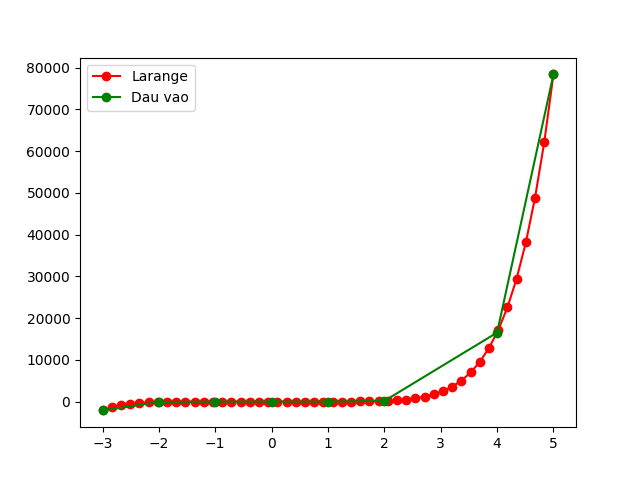
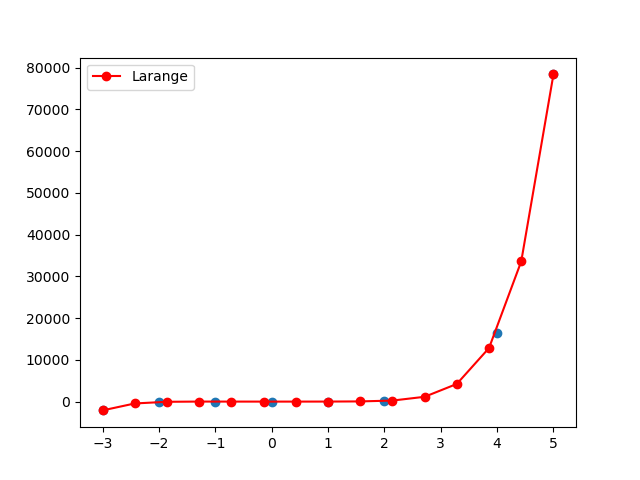
update lagrange, horner, newton

diff --git a/newton.py b/newton.py
@@ -1,56 +1,125 @@
+import math
 import horner
 import global_function as gf
 
-def BTH(arr_y, arr_x):
+# Bảng tỉ sai phân
+
+
+def BTSP(arr_y, arr_x):
     result = []
     result.append(arr_y)
-    for i in range(1,len(arr_y)):
+    for i in range(1, len(arr_y)):
         result.append([])
         for j in range(len(result[i-1])-1):
             m = (result[i-1][j+1] - result[i-1][j])/(arr_x[j+i] - arr_x[j])
             result[i].append(m)
     return result
 
-# Newton tiến 
-def newton_up(arr_y, arr_x):
-    arr_bth = BTH(arr_y, arr_x)
-    print(arr_bth)
-    print("----------")
-    result = [arr_y[0]]
-    for i in range(1, len(arr_bth)):
-        f = [arr_bth[i][0]]
-        for j in range(0, i):
-            print("x: ", arr_x[j])
-            f = horner.multiplication(f,arr_x[j])
-        print(f)
-        result = gf.add_two_polynomial(result,f)
+
+# Bảng tỉ sai phân cho newton cách đều
+# 1 : Sai phân tiến | 0 : Sai phân lùi
+def BTSP_equidistant(arr_y, type_btsp=1):
+    result = []
+    result.append(arr_y)
+    if (type_btsp == 0):
+        for i in range(1, len(arr_y)):
+            result.append([])
+            for j in range(len(result[i-1])-1):
+                m = (result[i-1][j+1] - result[i-1][j])
+                result[i].append(m)
+
+    elif (type_btsp == 1):
+        for i in range(1, len(arr_y)):
+            result.append([])
+            for j in range(1, len(result[i-1])):
+                m = (result[i-1][j] - result[i-1][j-1])
+                result[i].append(m)
     return result
+
+
+# Newton tiến
+def newton_up(arr_y, arr_x):
+    arr_btsp = BTSP(arr_y, arr_x)
+    print("----------")
+    print("BTSP Newton tiến: ", arr_btsp)
+    result = [arr_y[0]]
+    for i in range(1, len(arr_btsp)):
+        f = [arr_btsp[i][0]]
+        for j in range(0, i):
+            f = horner.multiplication(f, arr_x[j])
+        result = gf.add_two_polynomial(result, f)
+    return result
+
+
+# Newton tiến cho trường hợp điểm nội suy cách đều
+def newton_equidistant_up(arr_y, arr_x, h):
+    arr_btsp = BTSP_equidistant(arr_y, 1)
+    print("----------")
+    print("BTSP Newton mốc cách đều tiến: ", arr_btsp)
+    result = [arr_y[0]]
+    for i in range(1, len(arr_btsp)):
+        f = [arr_btsp[i][0] / (math.factorial(i) * h**i)
+             ]  # delta y0 / i! * h^i
+        for j in range(0, i):
+            f = horner.multiplication(f, arr_x[j])
+        result = gf.add_two_polynomial(result, f)
+    return result
+
 
 # Newton lùi
 def newton_down(arr_y, arr_x):
-    arr_bth = BTH(arr_y, arr_x)
-    print(arr_bth)
+    arr_btsp = BTSP(arr_y, arr_x)
     print("----------")
+    print("BTSP Newton lùi: ", arr_btsp)
     len_x = len(arr_x)
     result = [arr_y[len(arr_y)-1]]
-    for i in range(1, len(arr_bth)):
-        f = [arr_bth[i][len(arr_bth[i])-1]]
+    for i in range(1, len(arr_btsp)):
+        f = [arr_btsp[i][len(arr_btsp[i])-1]]
         for j in range(0, i):
-            print("x: ", arr_x[len_x - j - 1])
-            f = horner.multiplication(f,arr_x[len_x- j - 1])
-        print(f)
-        result = gf.add_two_polynomial(result,f)
+            f = horner.multiplication(f, arr_x[len_x - j - 1])
+        result = gf.add_two_polynomial(result, f)
     return result
 
-if __name__ == "__main__" :
+# Newton lùi cho trường hợp điểm nội suy cách đều
+
+
+def newton_equidistant_down(arr_y, arr_x, h):
+    arr_btsp = BTSP_equidistant(arr_y, 0)
+    print("----------")
+    print("BTSP Newton mốc cách đều lùi: ", arr_btsp)
+    result = [arr_y[0]]
+    len_x = len(arr_x)
+    result = [arr_y[len(arr_y)-1]]
+    for i in range(1, len(arr_btsp)):
+        # delta yn / i! * h^i
+        f = [arr_btsp[i][len(arr_btsp[i])-1] / (math.factorial(i) * h**i)]
+        for j in range(0, i):
+            f = horner.multiplication(f, arr_x[len_x - j - 1])
+        result = gf.add_two_polynomial(result, f)
+    return result
+
+
+def newton(arr_y, arr_x):
+    if (gf.check_inter_point(arr_x)):
+        d = arr_x[1] - arr_x[0]
+        print("Newton tiến với mốc cách đều : ", gf.to_string_polynomial(
+            newton_equidistant_up(arr_y, arr_x, d)))
+
+        print("Newton lùi với mốc cách đều : ",
+              gf.to_string_polynomial(newton_equidistant_down(arr_y, arr_x, d)))
+    else:
+        print("Newton tiến : ", gf.to_string_polynomial(
+            newton_up(arr_y, arr_x)))
+
+        print("Newton lùi : ",
+              gf.to_string_polynomial(newton_down(arr_y, arr_x)))
+
+if __name__ == "__main__":
 
     # Input
     # Y
-    A = [0.76 , 0.62, 0.45, 0.28]
+    A = [25, 35, 245]
     # X
-    B = [1.0, 1.3, 1.6, 1.9 ]
+    B = [-2, 3, 9]
 
-    print("Up")
-    print(gf.to_string_polynomial(newton_up(A,B)))
-    print("Down")
-    print(gf.to_string_polynomial(newton_down(A,B)))
+    newton(A, B)

diff --git a/global_function.py b/global_function.py
@@ -2,13 +2,30 @@
 def to_string_polynomial(arr):
     result = ""
     n = len(arr)
-    for i in range(n-1):
-        if (result != ""):
-            result = result + " + (" + str(arr[i]) + "x^" + str(n-i-1) + ")"
-        else:
-            result += " (" + str(arr[i]) + "x^" + str(n-i-1) + ")"
+    for i in range(n):
+        if(i == n-1):
+            if(result == ""):
+                result += str(arr[i])
+                break
+            if(arr[i] >= 0):
+                result += " + " + str(arr[i])
+            else:
+                result += " - " + str(abs(arr[i]))
+            break
 
-    result += " + (" + str(arr[n-1]) + ")"
+        if (result ==""):
+            if( arr[i] != 0):
+                result +=  str(arr[i]) + "x^" + str(n-i-1) 
+                continue
+            else:
+                continue
+            
+        if (arr[i] > 0):
+            result += " + " + str(arr[i]) + "x^" + str(n-i-1) 
+        elif(arr[i] == 0):
+            continue
+        else:
+            result += " - " + str(abs(arr[i])) + "x^" + str(n-i-1)
 
     return result
 
@@ -56,5 +73,5 @@ def check_inter_point(arr):
     d = arr[1] - arr[0]
     for i in range(2, len(arr)):
         if(arr[i-1] + d != arr[i]):
-            return True
-    return False
+            return False
+    return True

diff --git a/horner.py b/horner.py
@@ -14,6 +14,9 @@ def division(arr, c):
         m = arr_a[i] + arr_b[i-1]*c
         arr_b.append(m)
 
+    if(len(arr_b) == 0):
+        return([0], 0)
+
     return (arr_b[0:len(arr_b)-1] , arr_b[len(arr_b)-1])
 
 # Nhan da thuc voi x - c
@@ -94,17 +97,18 @@ if __name__ == "__main__":
 
     # Input
     # Mảng hệ số của đa thức
-    A = [1, 2, 2]
+    # A = [2, 0, -8, 0, 3, -9, -10, 1]
+    A = [1, -6, -12, 90, 39, -324, -28, 240, 0]
 
     # Hằng số c
-    c = - 2
+    c = 1
     # Dao ham bac n
-    n = 6
+    n = 1
 
     (result_division,r) = division(A, c)
 
 
-    print("Chia da thuc voi x - " + str(c)+ " : ", gf.to_string_polynomial(result_division), " phan du:" + str(r))
+    print("Chia da thuc voi x - " + str(c)+ " : ", gf.to_string_polynomial(result_division), " phan du: " + str(r))
     print()
     print("Nhan da thuc voi x - " + str(c) + " : ", gf.to_string_polynomial(multiplication(A, c)))
     print()
@@ -112,4 +116,4 @@ if __name__ == "__main__":
     print()
     print("Dao ham bac " + str(n) + " da thuc tai " + str(c) + " :", derivative(A,c,n))
     print()
-    print("Nghiem cua phuong trinh la: " , find_roots(A))
+    # print("Nghiem cua phuong trinh la: " , find_roots(A))

diff --git a/lagrange.py b/lagrange.py
@@ -13,7 +13,8 @@ def find_w(arr):
     return result
 
 
-def lagrange(arr_x, arr_y, f):
+def lagrange(arr_x, arr_y):
+    f= find_w(arr_x)
     n = len(arr_x)
     result = [0 for i in range(n)]
 
@@ -26,19 +27,17 @@ def lagrange(arr_x, arr_y, f):
 
 
 if __name__ == "__main__":
+
+    # Input 
     A = [0, 1, 2, -1, -2, 4, 5, -3]
     B = [8, 18, 172, 16, -84, 16536, 78358, -2098]
-    A.sort()
-    B.sort()
-    w = find_w(A)
 
-    lagrange_arr = lagrange(A, B, w)
-    print(lagrange_arr)
-    print()
+    lagrange_arr = lagrange(A, B)
+    print(gf.to_string_polynomial(lagrange_arr))
 
-    range_x = np.linspace(min(A), max(A))
+    range_x = np.linspace(min(A), max(A),15)
+    plt.scatter(A, B)
     plt.plot(range_x, [horner.value(lagrange_arr, range_x[i]) for i in range(len(range_x))] , 'ro-',  label = 'Larange')
-    plt.plot(A, B,'go-', label= 'Dau vao')
     plt.legend(loc = 'best')
     plt.savefig("lagrange.png")
     # plt.show()
